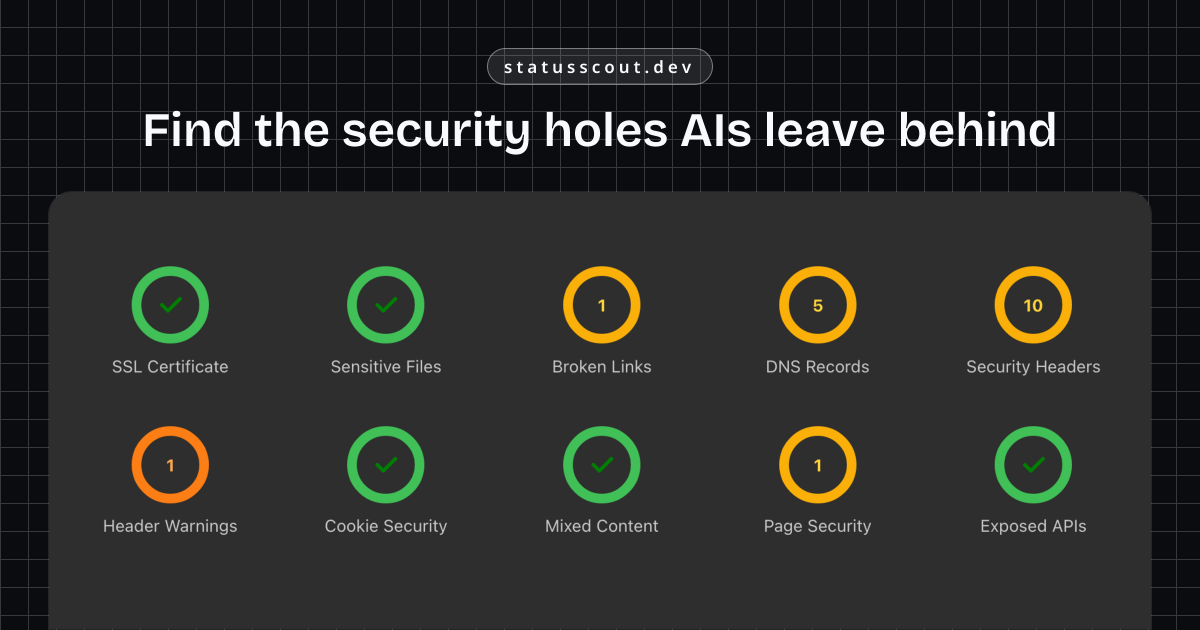
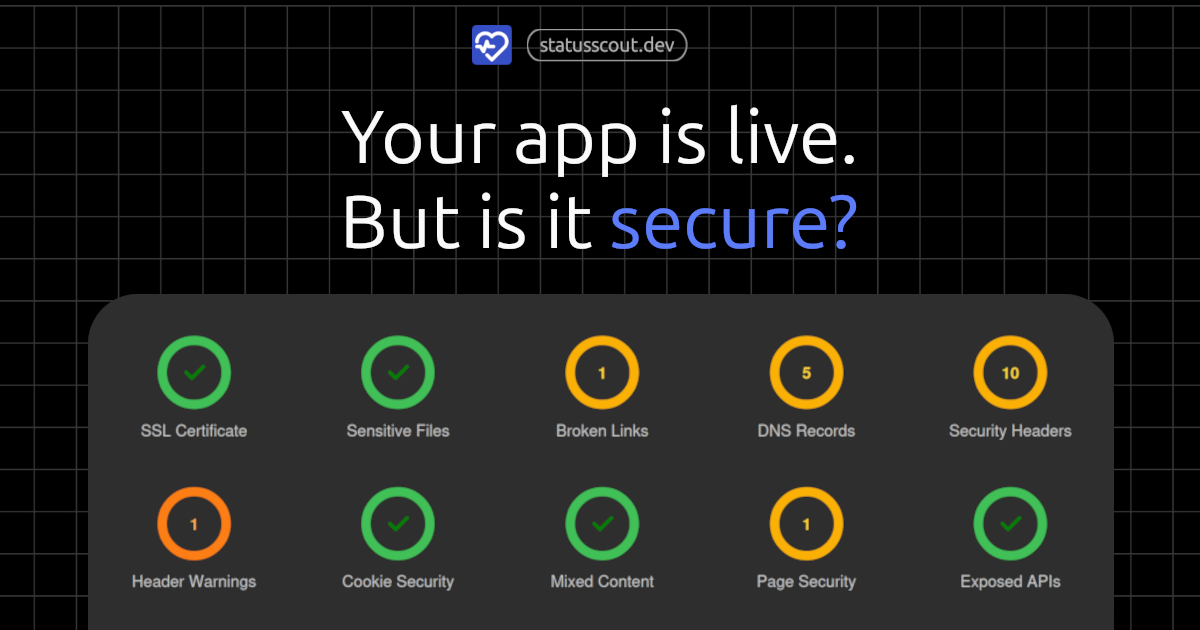
update og images and remove assets

diff --git a/packages/landing/index.html b/packages/landing/index.html
@@ -5,17 +5,17 @@
   <meta charset="UTF-8" />
   <link rel="icon" href="/favicon.ico" sizes="any" />
   <link rel="icon" href="/favicon.svg" type="image/svg+xml" />
-  <title>StatusScout - Find Security Holes in Your AI-Built App</title>
+  <title>StatusScout - Security and uptime monitoring for developers</title>
   <meta name="description" content="StatusScout scans your website for security holes and gives you ready-to-paste prompts to fix each one." />
   <meta name="viewport" content="width=device-width, initial-scale=1" />
-  <meta property="og:title" content="StatusScout - Find Security Holes in Your AI-Built App" />
+  <meta property="og:title" content="StatusScout - Security and uptime monitoring for developers" />
   <meta property="og:description" content="StatusScout scans your website for security holes and gives you ready-to-paste prompts to fix each one." />
   <meta property="og:image" content="/og.png" />
   <meta property="og:url" content="https://statusscout.dev" />
   <meta property="og:type" content="website" />
   <meta property="og:site_name" content="StatusScout" />
   <meta name="twitter:card" content="summary_large_image" />
-  <meta name="twitter:title" content="StatusScout - Find Security Holes in Your AI-Built App" />
+  <meta name="twitter:title" content="StatusScout - Security and uptime monitoring for developers" />
   <meta name="twitter:description" content="StatusScout scans your website for security holes and gives you ready-to-paste prompts to fix each one." />
   <meta name="twitter:image" content="/og.png" />
   <meta name="robots" content="index, follow" />

diff --git a/packages/landing/src/components/Layout/Layout.jsx b/packages/landing/src/components/Layout/Layout.jsx
@@ -8,7 +8,7 @@ import InlineLink from '@/components/InlineLink/InlineLink.jsx';
 import { useLocation } from 'react-router-dom';
 // import { useCookieConsent } from "react-cookie-manager";
 
-const Layout = ({ children, title }) => {
+const Layout = ({ children, title, description, ogImage }) => {
   // const { detailedConsent } = useCookieConsent();
   const isAnalyticsEnabled = import.meta.env.VITE_ENABLE_ANALYTICS === 'true' || import.meta.env.VITE_ENABLE_ANALYTICS === true;
   const [opened, setOpened] = useState(false);
@@ -94,6 +94,12 @@ const Layout = ({ children, title }) => {
   return <>
     <Helmet>
       <title>{`${title} | StatusScout`}</title>
+      {description && <meta name="description" content={description} />}
+      <meta property="og:title" content={`${title} | StatusScout`} />
+      {description && <meta property="og:description" content={description} />}
+      <meta property="og:image" content={ogImage || `${import.meta.env.VITE_LANDING_URL || ''}/og.png`} />
+      <meta name="twitter:card" content="summary_large_image" />
+      <meta name="twitter:image" content={ogImage || `${import.meta.env.VITE_LANDING_URL || ''}/og.png`} />
       {isAnalyticsEnabled && (<script defer src="https://analytics.vincentwill.com/script.js" data-website-id="a807669d-6eda-4c1c-9b36-2247d2caf318"></script>)}
     </Helmet>
 

diff --git a/packages/landing/src/pages/privacy.jsx b/packages/landing/src/pages/privacy.jsx
@@ -2,7 +2,7 @@ import Layout from '@/components/Layout/Layout';
 import { Box, Title } from '@mantine/core';
 
 const Privacy = () => {
-  return <Layout title="Privacy Policy" description="The Privacy Policy of StatusScout">
+  return <Layout title="Privacy Policy" description="How StatusScout collects, uses, and protects your data. Self-hosted by default, so your monitoring data stays on your server.">
     <Box maw={800} mx="auto" px="md" py="xl">
       <Title order={1} mb="xl">Privacy Policy</Title>
       <Title order={2} my="md">TLDR</Title>

diff --git a/packages/landing/src/pages/vibe-code.jsx b/packages/landing/src/pages/vibe-code.jsx
@@ -65,7 +65,7 @@ const SOCIAL_BULLETS = [
 
 function VibecodeLanding() {
   return (
-    <Layout title="Finds the security holes AIs leave behind">
+    <Layout title="Finds the security holes AIs leave behind" description="AI-built apps ship with more vulnerabilities than hand-written ones. StatusScout finds exposed secrets, missing security headers, and open API docs, then generates a fix prompt for each issue." ogImage="/og-ai.png">
       <Flex mx="auto" mih="80vh" align="center">
         <Hero
           rotatingWords={ROTATING_WORDS}

diff --git a/packages/landing/src/pages/index.jsx b/packages/landing/src/pages/index.jsx
@@ -64,7 +64,7 @@ const SOCIAL_BULLETS = [
 
 function Landing() {
   return (
-    <Layout title="Security and uptime monitoring for developers">
+    <Layout title="Security and uptime monitoring for developers" description="StatusScout monitors uptime, SSL certificates, security headers, DNS records, and exposed files. Get alerted the moment something goes wrong. Self-hosted, open source.">
       <Flex mx="auto" mih="80vh" align="center">
         <Hero
           rotatingWords={ROTATING_WORDS}

diff --git a/packages/landing/src/pages/blog/index.jsx b/packages/landing/src/pages/blog/index.jsx
@@ -12,7 +12,7 @@ export default function BlogIndex() {
   }, []);
 
   return (
-    <Layout title="Blog" description="Thoughts on website monitoring, security, and building StatusScout.">
+    <Layout title="Blog" description="Thoughts on website monitoring, web security, and building StatusScout in public.">
       <Box py="xl">
         <Title order={1} mb="xs">Blog</Title>
         <Text c="dimmed" mb="xl">Thoughts on website monitoring, security, and building in public.</Text>

diff --git a/packages/landing/src/pages/blog/[slug].jsx b/packages/landing/src/pages/blog/[slug].jsx
@@ -46,7 +46,7 @@ export default function BlogPost() {
     : null;
 
   return (
-    <Layout title={post.title} description={post.description}>
+    <Layout title={post.title} description={post.description} ogImage={post.ogImage || post.image}>
       <Box maw={720} mx="auto" py="xl">
         <Anchor component={Link} to="/blog" size="sm" mb="xl" display="block">
           ← Back to blog

diff --git a/packages/landing/src/pages/imprint.jsx b/packages/landing/src/pages/imprint.jsx
@@ -3,7 +3,7 @@ import { Box, Title } from '@mantine/core';
 
 const Imprint = () => {
   return (
-    <Layout title="Imprint" description="The Imprint of StatusScout">
+    <Layout title="Imprint" description="Legal information and contact details for StatusScout.">
       <Box maw={800} mx="auto" px="md" py="xl">
         <Title order={1} mb="xl">Imprint</Title>
 
